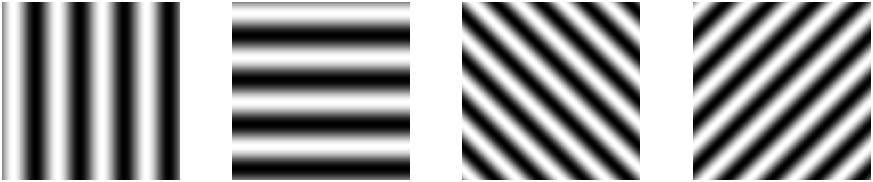
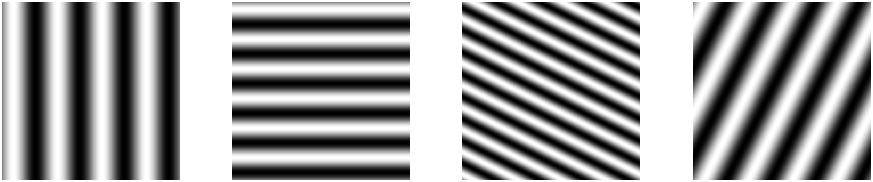
Refactor optics harmonics visualization and enhance impulse reconstruction
- Updated the 2D optics harmonics plots with new frequency values for better representation.
- Improved the 1D impulse reconstruction process, including detailed comments on DFT coefficients and reconstruction formulas.
- Added visualization for the reconstructed impulse in both 1D and 2D formats.
- Exported the new reconstruction images to the appropriate directory.

diff --git a/code/02Optics/fise_imageHarmonics.m b/code/02Optics/fise_imageHarmonics.m
@@ -9,7 +9,7 @@ fise_plotDefaults;
 x = linspace(-pi,pi,512);
 [X,Y] = meshgrid(x,x);
 
-%%
+%% optics-harmonics-2d
 ieFigure;
 tiledlayout(1,4);
 
@@ -17,85 +17,37 @@ nexttile;
 fx = 2; fy = 0;
 img = 1 + sin(2*fx*X + 2*fy*Y);
 imagesc(x,x,img); colormap(gray);
-axis off; axis image;
+axis off image tight
 
 nexttile;
-fx = 0; fy = 2;
+fx = 0; fy = 3;
 img = 1 + sin(2*fx*X + 2*fy*Y);
 imagesc(x,x,img); colormap(gray);
-axis off; axis image;
+axis off image tight
 
 
 nexttile;
-fx = 2; fy = -2;
+fx = 2; fy = -4;
 img = 1 + sin(2*fx*X + 2*fy*Y);
 imagesc(x,x,img); colormap(gray);
-axis off; axis image;
+axis off image tight
 
 nexttile;
-fx = 2; fy = 2;
+fx = 2; fy = 1;
 img = 1 + sin(2*fx*X + 2*fy*Y);
 imagesc(x,x,img); colormap(gray);
-axis off; axis image;
+axis off image tight
 
 %{
 fname = fullfile(fiseRootPath,'chapters','images','optics','optics-harmonics.png');
 exportgraphics(gcf,fname);
 %}
-%%
+
+%% optics-harmonics-1d
 
 x = linspace(-pi,pi,64);
 [X,Y] = meshgrid(x,x);
 img = zeros(size(X));
-
-ieFigure; axis off; axis image;
-tiledlayout(3,4);
-fy = 0;
-for fx = 1:32
-    img =  cos(2*fx*X + 2*fy*Y) + img;    
-    imagesc(x,x,1 + img); colormap(gray);
-    pause(0.5);
-end
-
-%%
-
-x = linspace(-pi,pi,129);
-[X,Y] = meshgrid(x,x);
-
-% Initialize
-fx = 0; fy = 0; imZero = cos(2*pi*(fx*X + fy*Y));
-
-% First 10
-tmp = zeros(size(imZero));
-for fx = 1:10
- tmp = tmp + cos(2*pi*(fx*X + fy*Y));
-end
-imagesc(imZero + tmp);
-plot(tmp(64,:));
-
-% Next 20
-for fx = 11:30
- tmp = tmp + cos(2*pi*(fx*X + fy*Y));
-end
-imagesc(imZero + tmp);
-plot(tmp(64,:));
-
-% Next until 128
-for fx = 31:129
- tmp = tmp + cos(2*pi*(fx*X + fy*Y));
-end
-imagesc(imZero + tmp);
-plot(tmp(64,:));
-
-
-
-%{
-fname = fullfile(fiseRootPath,'chapters','images','optics','optics-harmonics-1d.png');
-exportgraphics(gcf,fname);
-%}
-
-%%
-
 
 ieFigure;
 tiledlayout(3,4);
@@ -105,11 +57,135 @@ for cx = [1 0.5 0.1]
         nexttile
         img = (1 + cx*sin(2*fx*X + 2*fy*Y))*128;
         image(x,x,img); colormap(gray);
-        axis off; axis image;
+        axis off image tight
     end
 end
 
 %{
 fname = fullfile(fiseRootPath,'chapters','images','optics','optics-harmonics-1d.png');
 exportgraphics(gcf,fname);
+%}
+
+%% Sum of harmonics to create a 1D impulse at the origin
+
+N = 129; % Number of samples in the vector
+
+% 1. The discrete impulse vector
+
+%    For DFT, an impulse at index 1 (n=0) leads to all-1 DFT coefficients
+% discrete_impulse = zeros(1, N);
+% discrete_impulse(1) = 1; % Impulse at the first element (n=0 for DFT indexing)
+
+% 2. Compute the DFT coefficients of this impulse
+%    For a unit impulse at n=0, its DFT coefficients are all 1s (scaled by 1/N depending on fft/ifft definition)
+% DFT_coefficients = fft(discrete_impulse);
+
+% If discrete_impulse(1)=1, then DFT_coefficients will be all ones (within machine precision).
+
+% 3. Reconstruct the impulse using the inverse DFT formula (sum of complex exponentials)
+%    We will explicitly sum them to show the perfect reconstruction.
+%    Formula: x[n] = (1/N) * sum_{k=0 to N-1} (X[k] * exp(j*2*pi*k*n/N))
+%    Here X[k] = 1 for all k.
+
+reconstructed_impulse = zeros(1, N);
+
+n_indices = 0:(N-1); % 0-indexed sample positions
+
+for fx = 0:(N-1)
+    % Add the current complex exponential component
+    % Note: .* for element-wise multiplication across the n_indices vector
+    % reconstructed_impulse = reconstructed_impulse + DFT_coefficients(k_freq + 1) * exp(1j * 2 * pi * k_freq * n_indices / N);
+    % reconstructed_impulse = reconstructed_impulse + DFT_coefficients(k_freq + 1) * cos(2 * pi * k_freq * n_indices / N);
+    reconstructed_impulse = reconstructed_impulse + cos(2 * pi * fx * n_indices / N);
+end
+
+reconstructed_impulse = reconstructed_impulse / N; % Apply the 1/N scaling factor
+
+% 4. Adjust the plot domain to match your -pi to pi range
+%    Map 0-indexed 'n_indices' to the X range.
+%    The center of your 'X' is 0, which corresponds to the 'n' where the impulse should be (0 for ifft, (N+1)/2 for your 1-based linspace).
+%    Let's use your original 'x' domain for plotting.
+x_plot = linspace(-pi, pi, N);
+% We need to circularly shift the reconstructed impulse to center it
+reconstructed_impulse_shifted = circshift(reconstructed_impulse, [0, (N-1)/2]); % Shifts impulse from start to center
+
+% --- Visualization ---
+ieFigure;
+plot(x_plot, real(reconstructed_impulse_shifted)); % Plot the real part (imaginary part will be tiny)
+title(['Perfect Reconstruction of 1D Impulse (N=' num2str(N) ' terms)']);
+xlabel('Spatial X-coordinate (radians)');
+ylabel('Amplitude');
+grid on;
+axis tight;
+ylim([-0.1 1.1]); % Set y-limits to clearly show 0s and 1 peak
+
+fprintf('Maximum value of reconstructed impulse: %f\n', max(real(reconstructed_impulse_shifted)));
+fprintf('Minimum value of reconstructed impulse (excluding peak): %f\n', min(real(reconstructed_impulse_shifted(real(reconstructed_impulse_shifted) < 0.5)))); % Check non-peak values
+
+%% Make a 2D version reconstructing a line
+
+N = 129; % Number of samples in the vector
+x_plot = linspace(-pi, pi, N);
+
+% 1. The discrete impulse vector
+
+%    For DFT, an impulse at index 1 (n=0) leads to all-1 DFT coefficients
+discrete_impulse = zeros(N, N);
+discrete_impulse(:,65) = 1; % Impulse at the first element (n=0 for DFT indexing)
+
+% 2. Compute the DFT coefficients of this impulse
+%    For a unit impulse at n=0, its DFT coefficients are all 1s (scaled by 1/N depending on fft/ifft definition)
+DFT_coefficients = fft2(discrete_impulse);
+
+% If discrete_impulse(1)=1, then DFT_coefficients will be all ones (within machine precision).
+
+% 3. Reconstruct the impulse using the inverse DFT formula (sum of complex exponentials)
+%    We will explicitly sum them to show the perfect reconstruction.
+%    Formula: x[n] = (1/N) * sum_{k=0 to N-1} (X[k] * exp(j*2*pi*k*n/N))
+%    Here X[k] = 1 for all k.
+
+reconstructed_impulse = zeros(N, N);
+
+n_indices = 0:(N-1); % 0-indexed sample positions
+n_indices2 = meshgrid(n_indices,n_indices);
+
+ieFigure([],'wide'); colormap(gray);
+tiledlayout(1,5)
+for fx = 0:(N-1)
+    % Add the current complex exponential component
+    % Note: .* for element-wise multiplication across the n_indices vector
+    % reconstructed_impulse = reconstructed_impulse + DFT_coefficients(k_freq + 1) * exp(1j * 2 * pi * k_freq * n_indices / N);
+    % reconstructed_impulse = reconstructed_impulse + DFT_coefficients(k_freq + 1) * cos(2 * pi * k_freq * n_indices / N);
+    reconstructed_impulse = reconstructed_impulse + cos(2 * pi * fx * n_indices2 / N);
+    if fx == 4 || fx == 16 || fx == 64 || fx == 96 || fx == N-1
+        nexttile;
+        imagesc(x_plot,x_plot,circshift(reconstructed_impulse /(fx +1), [0, (N-1)/2]));
+        axis image equal tight
+        pause(1);
+    end
+end
+
+%{
+fname = fullfile(fiseRootPath,'chapters','images','optics','optics-reconstruction.png');
+exportgraphics(gcf,fname);
+%}
+
+%%
+%{
+reconstructed_impulse = reconstructed_impulse / N; % Apply the 1/N scaling factor
+
+% 4. Adjust the plot domain to match your -pi to pi range
+%    Map 0-indexed 'n_indices' to the X range.
+%    The center of your 'X' is 0, which corresponds to the 'n' where the impulse should be (0 for ifft, (N+1)/2 for your 1-based linspace).
+%    Let's use your original 'x' domain for plotting.
+
+% We need to circularly shift the reconstructed impulse to center it
+reconstructed_impulse_shifted = circshift(reconstructed_impulse, [0, (N-1)/2]); % Shifts impulse from start to center
+
+ieFigure;
+imagesc(x_plot,x_plot,reconstructed_impulse_shifted);
+colormap(gray)
+
+fprintf('Maximum value of reconstructed impulse: %f\n', max(real(reconstructed_impulse_shifted(:))));
+fprintf('Minimum value of reconstructed impulse (excluding peak): %f\n', min(real(reconstructed_impulse_shifted(real(reconstructed_impulse_shifted) < 0.5)))); % Check non-peak values
 %}
